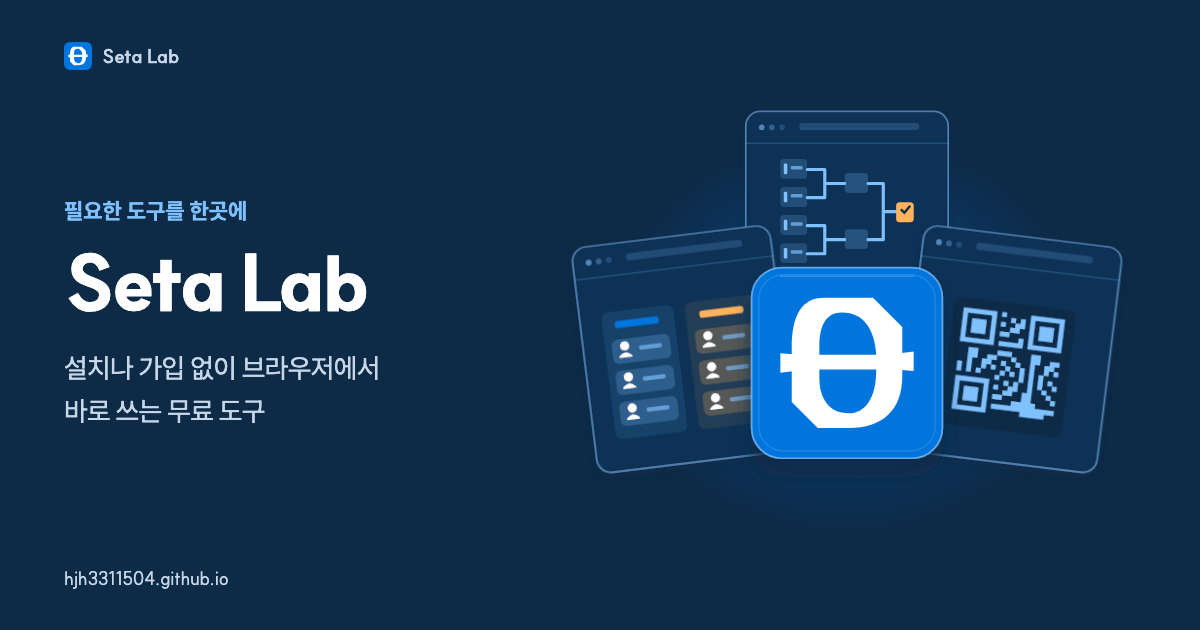
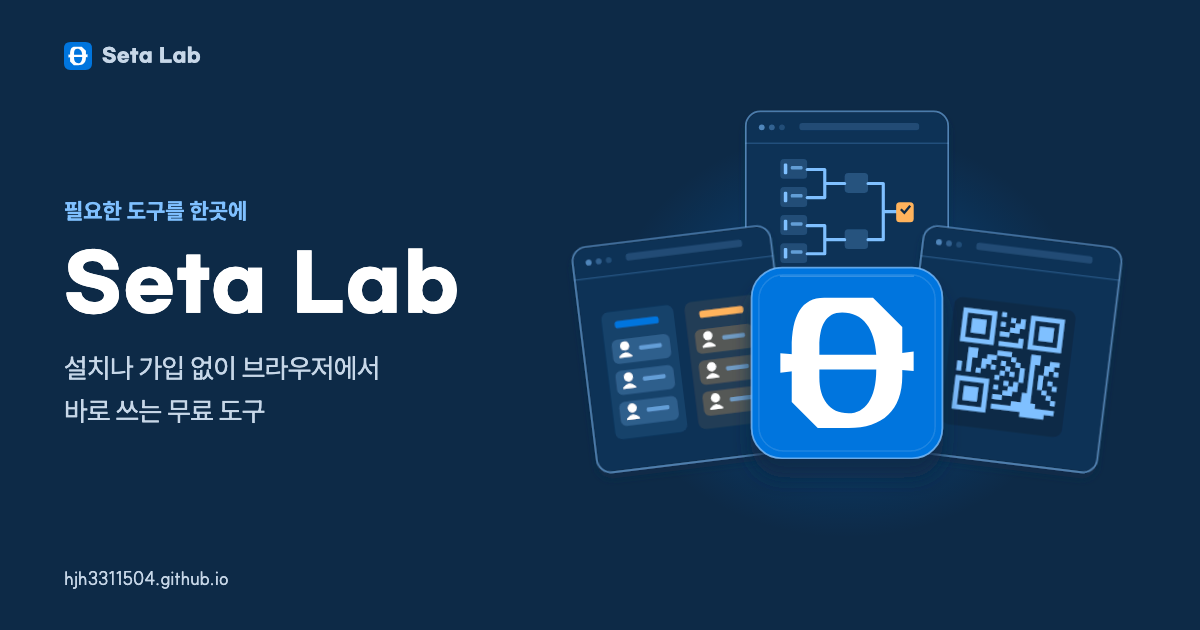
홈 제목에 Seta Title 글꼴 적용

Changed region(s): [[0.0617, 0.3921, 0.4008, 0.5127], [0.0925, 0.0603, 0.185, 0.1206]]

diff --git a/scripts/generate_site_assets.js b/scripts/generate_site_assets.js
@@ -6,16 +6,19 @@ import sharp from 'sharp';
 const font = async (name) =>
 	(await readFile(`src/lib/team-maker/fonts/${name}-Variable.woff2`)).toString('base64');
 const [suit, suite] = await Promise.all([font('SUIT'), font('SUITE')]);
+// 사이트 이름 Seta Lab은 홈 제목과 같은 Seta Title(Gmarket Sans Bold 영문 수정본)로 쓴다.
+const titleFont = (await readFile('src/lib/team-maker/fonts/seta-title.woff2')).toString('base64');
 const logo = (await readFile('static/favicon.svg', 'utf8')).replace('<svg ', '<svg class="logo" ');
 // 홈 공유 이미지는 홈 소개 영역과 같은 그림을 쓴다.
 const heroArt = await readFile('static/images/home/seta-lab-hero.svg', 'utf8');
 const styles = `
 @font-face { font-family: SUIT; src: url(data:font/woff2;base64,${suit}); font-weight: 100 900; }
 @font-face { font-family: SUITE; src: url(data:font/woff2;base64,${suite}); font-weight: 100 900; }
+@font-face { font-family: 'Seta Title'; src: url(data:font/woff2;base64,${titleFont}); font-weight: 700 900; unicode-range: U+20-7E; }
 * { box-sizing: border-box; }
 body { margin: 0; width: 1200px; height: 630px; font-family: SUIT, sans-serif; color: #1c1e26; background: #f6f5f4; }
 main { position: relative; display: flex; align-items: center; gap: 44px; width: 100%; height: 100%; padding: 64px; background: linear-gradient(135deg, #e4effa 0%, #f6f5f4 55%); }
-.brand { position: absolute; top: 42px; left: 64px; display: flex; align-items: center; gap: 10px; font-size: 19px; font-weight: 700; color: #615d59; }
+.brand { position: absolute; top: 42px; left: 64px; display: flex; align-items: center; gap: 10px; font-family: 'Seta Title', SUIT; font-size: 19px; font-weight: 700; letter-spacing: 0.5px; color: #615d59; }
 .logo { display: block; width: 28px; height: 28px; }
 .copy { flex: 0 0 450px; }
 .eyebrow { color: #0075de; font-size: 22px; font-weight: 750; margin: 0 0 18px; }
@@ -30,7 +33,7 @@ h1 { font-family: SUITE; font-size: 76px; line-height: 1.06; letter-spacing: -3p
 .team h2 { margin: 0 0 18px; font-family: SUITE; font-size: 24px; }
 .person { display: block; margin-top: 9px; padding: 10px 8px; border: 1px solid #e7ecf2; border-radius: 8px; font-size: 21px; font-weight: 600; }
 .result-note { margin: 20px 0 0; color: #0075de; font-size: 18px; font-weight: 700; }
-.home h1 { font-size: 76px; letter-spacing: -2px; }
+.home h1 { font-family: 'Seta Title', SUITE; font-size: 76px; letter-spacing: 2px; }
 main.navy { background: #0d2a47; color: #fff; }
 .navy .brand, .navy .url { color: #c7d7e8; }
 .navy .eyebrow { color: #7fc0ff; }
@@ -176,6 +179,24 @@ try {
 			`<!doctype html><html lang="ko"><head><meta charset="utf-8"><title>${asset.title}</title><style>${styles}</style></head><body><main class="${asset.theme ?? ''}"><div class="brand">${logo} Seta Lab</div>${asset.body}<span class="url">${asset.url}</span></main></body></html>`
 		);
 		await page.evaluate(() => document.fonts.ready);
+		// 글꼴을 읽지 못하면 대체 글꼴로 조용히 그려지므로 생성을 멈춘다.
+		const missingFonts = await page.evaluate(async () => {
+			const checks = [
+				['SUIT', '400 20px SUIT'],
+				['SUITE', '850 76px SUITE'],
+				['Seta Title', '700 76px "Seta Title"']
+			];
+			const missing = [];
+			for (const [name, font] of checks) {
+				const loaded = await document.fonts.load(font, 'Seta Lab 가').catch(() => []);
+				if (!loaded.some((face) => face.status === 'loaded')) missing.push(name);
+			}
+			return missing;
+		});
+		if (missingFonts.length)
+			throw new Error(
+				`${asset.name} 공유 이미지에서 글꼴을 읽지 못했습니다: ${missingFonts.join(', ')}`
+			);
 		const overflow = await page.evaluate(() =>
 			[...document.querySelectorAll('main *')].some(
 				(element) => element.scrollWidth > element.clientWidth + 1

diff --git a/src/routes/+page.svelte b/src/routes/+page.svelte
@@ -12,6 +12,7 @@
 	import SiteShell from '$lib/components/organisms/SiteShell.svelte';
 	import { Button, Section, SectionHeader, Surface } from '$lib/components/ui';
 	import { categories, formatDate } from '$lib/blog/catalog.js';
+	import setaTitleFont from '$lib/team-maker/fonts/seta-title.woff2?url';
 
 	let { data } = $props();
 
@@ -78,6 +79,7 @@
 </script>
 
 <svelte:head>
+	<link rel="preload" href={setaTitleFont} as="font" type="font/woff2" crossorigin="anonymous" />
 	<title>{title}</title>
 	<link rel="canonical" href={siteBaseUrl} />
 	<meta name="keywords" content={keywords.join(', ')} />
@@ -469,13 +471,16 @@
 		font-family: 'SUITE', 'SUITE Full', 'SUIT', sans-serif;
 	}
 
+	/* 사이트 이름 Seta Lab만 Seta Title(Gmarket Sans Bold 영문 수정본)로 쓴다. */
 	.home-hero h1 {
 		margin: 0;
 		color: var(--color-white);
+		font-family: 'Seta Title', 'SUITE', 'SUITE Full', 'SUIT', sans-serif;
 		font-size: var(--font-size-48);
 		font-weight: 700;
 		line-height: 1.15;
-		letter-spacing: -0.75px;
+		/* 공유 이미지(76px에 2px, 약 0.026em)와 같은 비율로 자간을 넓힌다. */
+		letter-spacing: 0.026em;
 	}
 
 	:global(.github-link:focus-visible) {

diff --git a/scripts/licenses.js b/scripts/licenses.js
@@ -7,6 +7,7 @@ export const publishedLicenses = [
 	['licenses/Bootstrap-Icons-LICENSE.txt', 'Bootstrap-Icons-LICENSE.txt'],
 	['src/lib/team-maker/fonts/SUIT-LICENSE.txt', 'SUIT-LICENSE.txt'],
 	['src/lib/team-maker/fonts/SUITE-LICENSE.txt', 'SUITE-LICENSE.txt'],
+	['src/lib/team-maker/fonts/GmarketSans-LICENSE.txt', 'GmarketSans-LICENSE.txt'],
 	['node_modules/fontkit/README.md', 'fontkit-NOTICE.md'],
 	['node_modules/fontkit/package.json', 'fontkit-package.json'],
 	['node_modules/brotli/readme.md', 'brotli-NOTICE.md'],

diff --git a/src/lib/styles/fonts.css b/src/lib/styles/fonts.css
@@ -91,3 +91,14 @@
 		U+d560, U+d568-d569, U+d56d, U+d574, U+d588, U+d604, U+d648, U+d654-d655, U+d65c, U+d68c,
 		U+d69f, U+d6a8, U+d788, U+d78c;
 }
+
+/* 홈 소개 제목 Seta Lab 전용. Gmarket Sans Bold의 영문·숫자만 남긴 수정본이라 OFL 예약 이름 대신 다른 이름을 쓴다. */
+
+@font-face {
+	font-family: 'Seta Title';
+	font-style: normal;
+	font-weight: 700 900;
+	font-display: swap;
+	src: url('$lib/team-maker/fonts/seta-title.woff2') format('woff2');
+	unicode-range: U+20-7e;
+}

diff --git a/scripts/verify_team_maker_build.js b/scripts/verify_team_maker_build.js
@@ -34,6 +34,7 @@ const requiredFiles = [
 	'build/images/aram-mayhem-open-graph-1200x630.png',
 	'build/licenses/SUIT-LICENSE.txt',
 	'build/licenses/SUITE-LICENSE.txt',
+	'build/licenses/GmarketSans-LICENSE.txt',
 	'build/licenses/site-LICENSE.txt',
 	'build/licenses/THIRD_PARTY_NOTICES.md',
 	'build/index.html',

diff --git a/scripts/generate_title_font.py b/scripts/generate_title_font.py
@@ -1,0 +1,58 @@
+"""홈 제목·공유 이미지 제목의 영문용 글꼴(Seta Title)을 만든다.
+
+Gmarket Sans Bold 원본에서 영문·숫자·기본 문장부호(U+0020~U+007E)만 남긴다. 한글은 기존 SUITE로 표시한다.
+원본은 예약 글꼴 이름(Gmarket Sans Font)이 있는 OFL 글꼴이라 수정본 이름을 Seta Title로 바꾼다.
+
+사용법(fontTools는 npm 의존성이 아니라 uvx로 임시 설치해 실행한다):
+  uvx --from 'fonttools[woff]==4.68.0' python scripts/generate_title_font.py <GmarketSansTTFBold.ttf 경로>
+
+원본 TTF는 https://corp.gmarket.com/fonts/GmarketSansTTF.zip 에서 받는다. 저장소에는 넣지 않는다.
+현재 파일은 버전 1.000, SHA-256 ff7c354dd1a324e4cecc1223c4f71e74fa81be7027e0c7f6324c475909cacefc 원본으로 만들었다.
+"""
+
+from pathlib import Path
+import sys
+
+from fontTools import subset
+from fontTools.ttLib import TTFont
+
+ROOT = Path(__file__).resolve().parent.parent
+OUTPUT = ROOT / 'src/lib/team-maker/fonts/seta-title.woff2'
+
+
+def main():
+    if len(sys.argv) != 2:
+        sys.exit(__doc__)
+    # 저장 시각을 원본 값으로 두어 같은 원본이면 같은 파일(같은 배포 주소)이 나오게 한다.
+    font = TTFont(sys.argv[1], recalcTimestamp=False)
+    options = subset.Options()
+    options.flavor = 'woff2'
+    options.layout_features = ['kern']
+    options.name_IDs = [0, 13, 14]
+    options.name_languages = [0x409]
+    options.notdef_outline = True
+    subsetter = subset.Subsetter(options)
+    subsetter.populate(unicodes=range(0x20, 0x7F))
+    subsetter.subset(font)
+
+    names = font['name']
+    for name_id, value in [
+        (1, 'Seta Title'),
+        (2, 'Bold'),
+        (3, 'SetaTitle-Bold-1.000'),
+        (4, 'Seta Title Bold'),
+        (6, 'SetaTitle-Bold'),
+    ]:
+        names.setName(value, name_id, 3, 1, 0x409)
+
+    # 원본은 Regular로 표시돼 있어 이름(Bold)에 맞춰 굵은 글꼴 표시로 바꾼다.
+    font['OS/2'].fsSelection = (font['OS/2'].fsSelection & ~(1 << 6)) | (1 << 5)
+    font['head'].macStyle |= 1
+
+    font.flavor = 'woff2'
+    font.save(OUTPUT)
+    print(f'{OUTPUT.relative_to(ROOT)}: {OUTPUT.stat().st_size:,}바이트')
+
+
+if __name__ == '__main__':
+    main()

diff --git a/README.md b/README.md
@@ -12,9 +12,9 @@ QR 화면은 `src/lib/qr-code/components/`, 구슬 레이스 화면은 `src/lib/
 
 개발 서버와 `localhost`·`127.*`·`[::1]`의 정적 preview에서는 탭 제목 앞에 `[로컬]`을 붙이고 favicon을 주황색으로 표시합니다. 내부 페이지 이동에도 유지됩니다. `theme-color`를 지원하는 브라우저에서는 브라우저 UI에도 주황색을 적용합니다. 일반 데스크톱 브라우저의 탭 배경색은 사이트에서 강제로 바꿀 수 없습니다. 실제 배포 주소의 제목·favicon·색상은 유지합니다. 구현은 `src/lib/local-preview.js`입니다.
 
-홈은 `src/routes/+page.svelte`, 최신 글 데이터는 `src/routes/+page.server.js`, 공통 오류 안내는 `src/lib/components/organisms/ErrorPage.svelte`에서 관리합니다. 정적 404와 SvelteKit 오류 화면이 같은 안내를 사용합니다. 공통 기본 CSS와 글꼴 선언은 `src/lib/styles/`에 있습니다. 글꼴은 사이트 안의 SUIT·SUITE 파일로 제공하며 외부 CDN에 요청하지 않습니다. Team Maker는 작은 글꼴을 먼저 받고 이름을 입력할 때 전체 글꼴로 보완합니다.
+홈은 `src/routes/+page.svelte`, 최신 글 데이터는 `src/routes/+page.server.js`, 공통 오류 안내는 `src/lib/components/organisms/ErrorPage.svelte`에서 관리합니다. 정적 404와 SvelteKit 오류 화면이 같은 안내를 사용합니다. 공통 기본 CSS와 글꼴 선언은 `src/lib/styles/`에 있습니다. 글꼴은 사이트 안의 SUIT·SUITE 파일과 홈 제목 Seta Lab 전용 Seta Title 파일로 제공하며 외부 CDN에 요청하지 않습니다. Team Maker는 작은 글꼴을 먼저 받고 이름을 입력할 때 전체 글꼴로 보완합니다.
 
-홈·Team Maker·ASMR 구슬 레이스·QR 코드·대진표·아수라장 가이드 공유 이미지는 1200×630 PNG입니다. `scripts/generate_site_assets.js`의 문구와 카드 배치를 수정한 뒤 아래 명령을 실행하세요. 생성에는 Playwright Chromium이 필요합니다. `static/favicon.svg`를 수정해도 같은 명령으로 PNG·ICO를 다시 만듭니다.
+홈·Team Maker·ASMR 구슬 레이스·QR 코드·대진표·아수라장 가이드 공유 이미지는 1200×630 PNG입니다. `scripts/generate_site_assets.js`의 문구와 카드 배치를 수정한 뒤 아래 명령을 실행하세요. 생성에는 Playwright Chromium이 필요합니다. `static/favicon.svg`를 수정해도 같은 명령으로 PNG·ICO를 다시 만듭니다. 공유 이미지의 사이트 이름 `Seta Lab`은 홈 소개 제목과 같은 `Seta Title` 글꼴(Gmarket Sans Bold 영문 수정본)을 쓰고, 나머지 제목은 SUITE를 씁니다. 글꼴을 읽지 못하면 생성이 멈춥니다. 글꼴 파일은 [공식 TTF 묶음](https://corp.gmarket.com/fonts/GmarketSansTTF.zip)의 Bold 파일로 `uvx --from 'fonttools[woff]==4.68.0' python scripts/generate_title_font.py <GmarketSansTTFBold.ttf>`를 실행해 만듭니다. Python 라이브러리 fontTools는 `uvx`가 임시로 설치합니다. 같은 원본이면 같은 파일이 나옵니다.
 
 ```shell
 npx playwright install chromium

diff --git a/THIRD_PARTY_NOTICES.md b/THIRD_PARTY_NOTICES.md
@@ -65,12 +65,15 @@ SVG 원본 코드는 `static/images/team-maker/*.svg` 파일 자체에 있습니
 
 ## 글꼴
 
-| 자료  | 제작자·출처                                  | 이용 조건                 | 원문                                         |
-| ----- | -------------------------------------------- | ------------------------- | -------------------------------------------- |
-| SUIT  | SUNN · https://github.com/sun-typeface/SUIT  | SIL Open Font License 1.1 | `src/lib/team-maker/fonts/SUIT-LICENSE.txt`  |
-| SUITE | SUNN · https://github.com/sun-typeface/SUITE | SIL Open Font License 1.1 | `src/lib/team-maker/fonts/SUITE-LICENSE.txt` |
+| 자료         | 제작자·출처                                              | 이용 조건                                                    | 원문                                               |
+| ------------ | -------------------------------------------------------- | ------------------------------------------------------------ | -------------------------------------------------- |
+| SUIT         | SUNN · https://github.com/sun-typeface/SUIT              | SIL Open Font License 1.1                                    | `src/lib/team-maker/fonts/SUIT-LICENSE.txt`        |
+| SUITE        | SUNN · https://github.com/sun-typeface/SUITE             | SIL Open Font License 1.1                                    | `src/lib/team-maker/fonts/SUITE-LICENSE.txt`       |
+| Gmarket Sans | eBay Korea(현 Gmarket) · https://corp.gmarket.com/fonts/ | SIL Open Font License 1.1 기반 G마켓 산스 라이선스(6항 추가) | `src/lib/team-maker/fonts/GmarketSans-LICENSE.txt` |
 
 전체 글꼴과 Team Maker용 글자 모음에는 같은 글꼴 라이선스를 적용합니다. 코드 라이선스 변경은 글꼴에 적용하지 않습니다. 배포 결과의 `/licenses/SUIT-LICENSE.txt`와 `/licenses/SUITE-LICENSE.txt`에 원문을 포함합니다.
+
+홈 소개 제목과 공유 이미지의 사이트 이름 `Seta Lab`에는 2026-11-05에 공식 배포본에서 받은 Gmarket Sans Bold(TTF)를 씁니다. 영문·숫자·기본 문장부호(U+0020~U+007E)만 남긴 WOFF2 수정본 `src/lib/team-maker/fonts/seta-title.woff2`로 제공하며 `scripts/generate_title_font.py`로 만듭니다. 원본은 예약 글꼴 이름(Reserved Font Name) `Gmarket Sans Font`를 두므로 OFL에 따라 수정본의 글꼴 이름을 `Seta Title`로 바꿨습니다. 저작권 표시와 라이선스 정보는 글꼴 안에 남겼고, 원문은 배포 결과의 `/licenses/GmarketSans-LICENSE.txt`에 포함합니다. 이 라이선스는 OFL 1.1 조항에 저작권자가 글꼴 사용 결과물을 홍보에 쓸 수 있다는 6항(사용자가 명시적으로 거부하면 제외)을 더한 문구입니다.
 
 ## GitHub 아이콘
 

diff --git a/docs/design/screens/SCR-WEB-002.md b/docs/design/screens/SCR-WEB-002.md
@@ -23,6 +23,8 @@
 7. 사이트 footer: 카드 밖에서 위쪽 구분선과 함께 소개·문의와 개인정보처리방침 링크 다음에 “© 2026 Seta Lab”을 표시하고 내용이 짧아도 첫 화면의 하단 영역보다 위로 올라오지 않고, 내용이 길면 문서 흐름에 따라 아래로 이동
 8. 개인정보처리방침: 2026-10-15부터 모달 대신 `/privacy` 화면(`SCR-WEB-007`)으로 이동
 
+소개 제목 `Seta Lab`(h1)은 2026-11-05부터 Gmarket Sans Bold의 영문만 남긴 `Seta Title` 글꼴로 표시한다. 섹션 제목·글 제목·카드 제목·본문은 기존 SUIT·SUITE를 유지한다.
+
 QR 코드 아이콘의 배경과 그림자는 보라색(`#6d4bc3`)을 사용한다. 칼바람 아수라장 카드 제목은 ‘칼바람 아수라장’이고 아이콘 배경은 QR과 구분되는 장미색(`#db2777`)이다. 아이콘 선은 흰색을 유지한다.
 
 ### 간략한 화면 구성 예시
